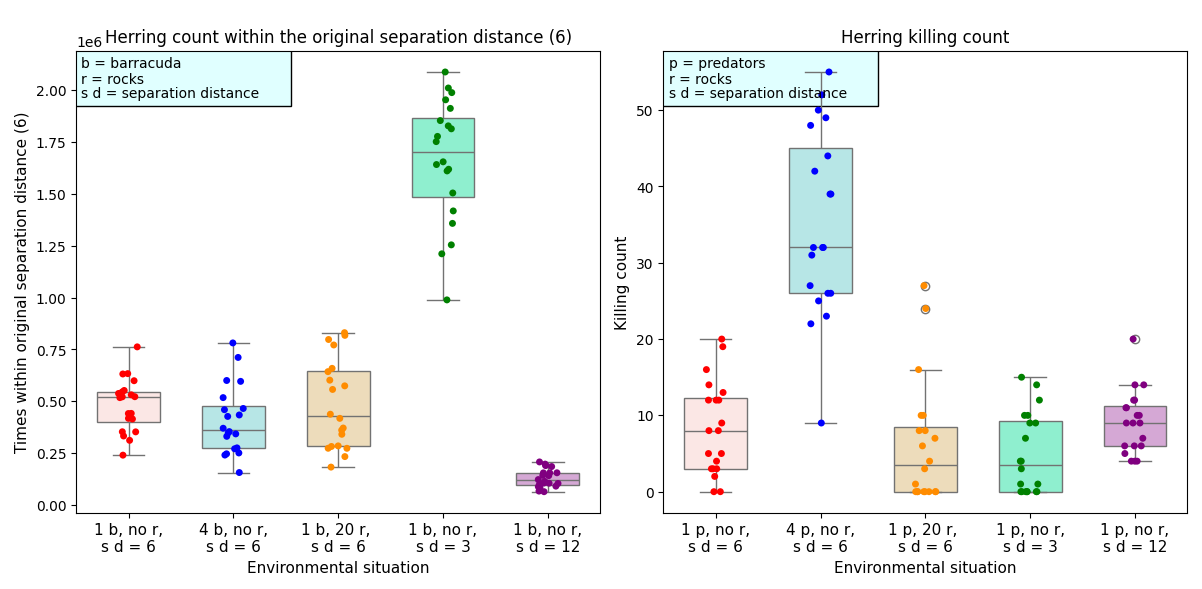
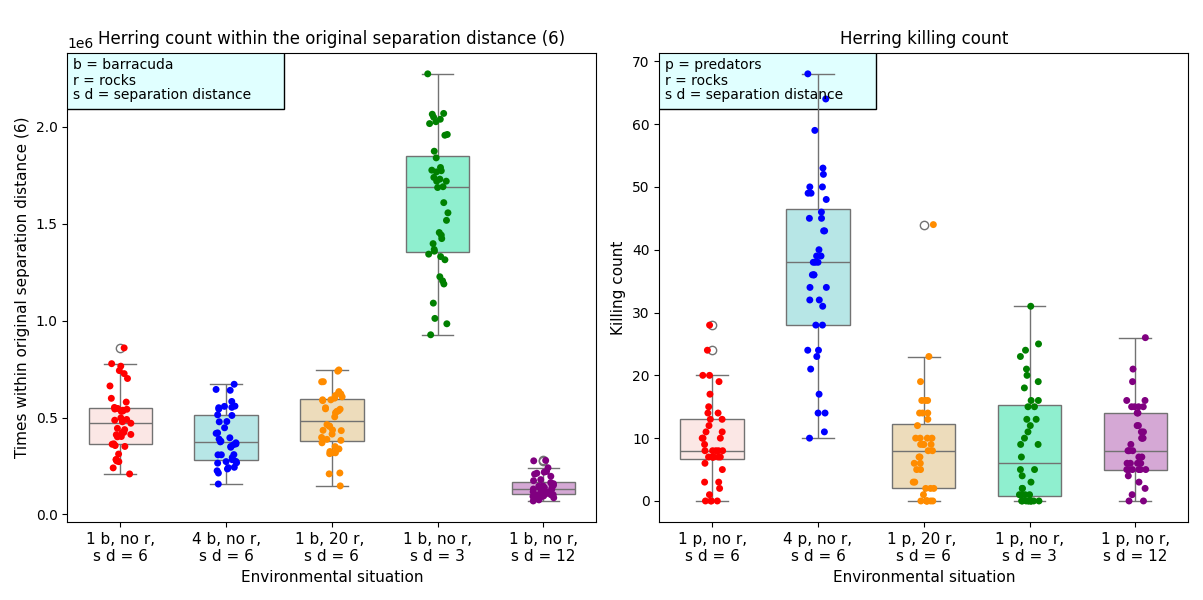
spelling and function check + updated perception figure

diff --git a/code/herring_simulation.py b/code/herring_simulation.py
@@ -4,9 +4,8 @@ University:   UvA
 Course:       Project Computational Science
 Student ID's: 14773279 , 15159337, 13717405
 Description:  Agent-based model to simulate the movement dynamics of a school of herring.
-              The dynamics are also studied in the presence of rocks and predators. This enables
-              us to keep track of the amount of surviving herring and which strategy of movement
-              results in the highest surviving rate.
+              The dynamics are also studied in the presence of rocks and predators. This
+              enables us to keep track of the amount of killed herring.
 """
 
 import pygame
@@ -108,7 +107,7 @@ class Herring(pygame.sprite.Sprite):
             alignment_influence = 1
             cohesion_influence = 3
 
-        # Finding the herring within separation distance
+        # Loop over all the herring
         for herring in all_herring:
             distance_two_herring = self.position.distance_to(herring.position)
 
@@ -121,7 +120,7 @@ class Herring(pygame.sprite.Sprite):
                     neighbour_herring_separation += 1
 
             if herring != self and distance_two_herring != 0 and distance_two_herring < Config.ALIGNMENT_DISTANCE:
-                    # Add direction of the neighbour to the total alignment vector
+                    # Add velocity of the neighbour to the total alignment vector
                     alignment_vector += herring.velocity
                     neighbour_herring_alignment += 1
 
@@ -173,7 +172,7 @@ class Herring(pygame.sprite.Sprite):
                 predator_avoidance_vector += (self.position - predator.position) / distance_to_predator
                 neighbour_predator += 1
 
-            # Kill herring if a predator is within the killing distance
+            # Kill the herring if a predator is within the killing distance
             if distance_to_predator < Config.KILL_DISTANCE:
                 all_herring.remove(self)
                 Herring.killed_herring += 1
@@ -204,15 +203,13 @@ class Herring(pygame.sprite.Sprite):
 
             if distance_to_rock < Config.ROCK_AVOIDANCE_DIST and distance_to_rock != 0:
 
-                # Determine the avoidance vector and add it to total vector
+                # Determine the avoidance vector and add it to the total vector
                 rock_avoidance_vector += (self.position - rock.position)/ distance_to_rock
                 neighbour_rock +=1
 
         # Determine the average rock avoidance vector and multiply by five to make it important
         if neighbour_rock > 0:
             rock_avoidance_vector = rock_avoidance_vector / neighbour_rock
-
-            # Multiply by five to ensure moving away from rock is prioritized
             self.velocity += rock_avoidance_vector * 5
 
         # Normalize velocity and multiply by speed to which some randomness is added
@@ -293,7 +290,7 @@ class Predator(pygame.sprite.Sprite):
         self.velocity = pygame.Vector2(random.uniform(-1, 1), random.uniform(-1, 1)).normalize() * (Config.PREDATOR_SPEED + random.uniform(-0.8, 0.8))
 
     def collision_avoidance(self, all_predators):
-        """Function to adapt the predator's velocity to avoid collision.
+        """Function to adapt the predator's velocity to avoid collision with other predator.
 
         Parameters:
         -----------
@@ -377,8 +374,6 @@ class Predator(pygame.sprite.Sprite):
         # Determine the average avoidance vector and multiply by five to make it important
         if neighbour_rock > 0:
             rock_avoidance_vector = rock_avoidance_vector / neighbour_rock
-
-            # Multiply by five to ensure moving away from rock is prioritized
             self.velocity += rock_avoidance_vector * 5
 
         # Normalize velocity and multiply by speed to which some randomness is added
@@ -533,9 +528,9 @@ class Experiment(pygame.sprite.Sprite):
         self: Experiment
             The experiment being initialized.
         position_1: List
-            The position of onject 1
+            The position of onject 1.
         position_2: List
-            The position of onject 2
+            The position of onject 2.
 
         Returns:
         -----------
@@ -544,7 +539,7 @@ class Experiment(pygame.sprite.Sprite):
 
         Examples:
         >>> obj = Experiment()
-        >>> obj.distance_two_positions((0, 0), (3, 4))
+        >>> obj.distance_two_positions((1, 2), (4, 6))
         5.0
         >>> obj.distance_two_positions((0, 0), (0, 0))
         0.0
@@ -585,6 +580,8 @@ class Experiment(pygame.sprite.Sprite):
         -----------
         self: Experiment
             The experiment being simulated.
+        all_rocks: Pygame.sprite.Group
+            Group containing all rock entities.
 
         Returns:
         -----------
@@ -714,7 +711,7 @@ class Experiment(pygame.sprite.Sprite):
         -----------
         self: Experiment
             The experiment being simulated.
-        font: Font
+        font_style: Font
             The font used to style the text in the legend.
         screen: Screen
             The screen on which the legend has to be shown.
@@ -747,6 +744,55 @@ class Experiment(pygame.sprite.Sprite):
         screen.blit(rock_legend_text, rock_legend_rect)
 
         return screen
+
+    def update_perception_length(perception_length, adaption, elapsed_time):
+        """Function that updates the perception length
+
+        Parameters:
+        -----------
+        perception_length: Float
+            The current perception length stored in the Config class.
+        adaption: Int
+            The change in perception length, differs for herring and predator.
+        elapsed_time: Float
+            The time that has already passed when this function is called.
+
+        Returns:
+        -----------
+        perception_length + or - adaption: Float
+            The new perception length after adaption.
+        """
+        if elapsed_time <= self.simulation_duration/2:
+         return perception_length + adaption
+        else:
+         return perception_length - adaption
+
+    def handle_perception_change(perception_list, perception_length_attr, adaption, killed_count_ls):
+        """Function that changes the perception length of the herring or predator on specific time points
+        during the simulation. Trying to create the concept of the water getting darker later on the day.
+
+        Parameters:
+        -----------
+        perception_list: List
+            Empty list to store the perception lengths on each measured timepoint.
+        perception_lenghth_attr: Float
+            The perception length of either a herring or predator that is currently stored in the Config class.
+        adaption: Int
+            The change in perception length, differs for herring and predator.
+        killed_count_ls: List
+            Empty list to store the number of killed herring between each measured timepoint.
+        """
+        # 20 seconds intervals
+        if round(elapsed_time, 4) % 20 == 0:
+            new_perception_length = self.update_perception_length(getattr(Config, perception_length_attr), adaption, elapsed_time)
+            perception_list.append(new_perception_length)
+            # Saving in different var to prevent the Herring class var (killed_herring) to change throughout the entire simulation
+            killing_count = Herring.killed_herring
+            killed_count_ls.append(killing_count)
+            setattr(Config, perception_length_attr, new_perception_length)
+
+            # Resetting count after the simulation has run witht this perception length value for some time
+            killing_count = 0
 
     def perception_change(self, showed_frames, perception_list_predator, perception_list_herring, killed_count_ls_pred, killed_count_ls_herr):
         """ Function that changes the perception length over time for either the predator, herring or both.
@@ -781,7 +827,6 @@ class Experiment(pygame.sprite.Sprite):
             List with the number of killed herring between each measured timepoint if
             the perception length of the herring changes.
         """
-
         # Ensuring the perception lengths are set to their starting value only in the first function call
         if self.perception_change_called:
             self.perception_change_called = False
@@ -790,63 +835,12 @@ class Experiment(pygame.sprite.Sprite):
 
         elapsed_time = (showed_frames / Config.FRAMES_PER_SECOND)
 
-        def update_perception_length(perception_length, adaption, elapsed_time):
-            """Function that updates the perception length
-
-            Parameters:
-            -----------
-            perception_length: Float
-                The current perception length stored in the Config class.
-            adaption: Int
-                The change in perception length, differs for herring and predator.
-            elapsed_time: Float
-                The time that has already passed when this function is called.
-
-            Returns:
-            -----------
-            perception_length + or - adaption: Float
-                The new perception length after adaption.
-            """
-
-            if elapsed_time <= self.simulation_duration/2:
-             return perception_length + adaption
-            else:
-             return perception_length - adaption
-
-        def handle_perception_change(perception_list, perception_length_attr, adaption, killed_count_ls):
-            """Function that changes the perception length of the herring or predator on specific time points
-            during the simulation. Trying to create the concept of the water getting darker later on the day.
-
-            Parameters:
-            -----------
-            perception_list: List
-                Empty list to store the perception lengths on each measured timepoint.
-            perception_lenghth_attr: Float
-                The perception length of either a herring or predator that is currently stored in the Config class.
-            adaption: Int
-                The change in perception length, differs for herring and predator.
-            killed_count_ls: List
-                Empty list to store the number of killed herring between each measured timepoint.
-            """
-            # 20 seconds intervals
-            if round(elapsed_time, 4) % 20 == 0:
-                new_perception_length = update_perception_length(getattr(Config, perception_length_attr), adaption, elapsed_time)
-                perception_list.append(new_perception_length)
-                # Saving in different var to prevent the Herring class var (killed_herring) to change throughout the entire simulation
-                killing_count = Herring.killed_herring
-                killed_count_ls.append(killing_count)
-                setattr(Config, perception_length_attr, new_perception_length)
-
-                # Resetting count after the simulation has run witht this perception length value for some time
-                killing_count = 0
-
         if self.perception_change_predator:
-            handle_perception_change(perception_list_predator, 'PERCEPTION_LENGTH_PREDATOR', 5, killed_count_ls_pred)
+            self.handle_perception_change(perception_list_predator, 'PERCEPTION_LENGTH_PREDATOR', 5, killed_count_ls_pred)
         if self.perception_change_herring:
-            handle_perception_change(perception_list_herring, 'PERCEPTION_LENGTH_HERRING', 3, killed_count_ls_herr)
+            self.handle_perception_change(perception_list_herring, 'PERCEPTION_LENGTH_HERRING', 3, killed_count_ls_herr)
 
         return perception_list_predator, perception_list_herring, killed_count_ls_pred, killed_count_ls_herr
-
 
     def run(self):
         """ Function that runs an experiment.
@@ -875,10 +869,6 @@ class Experiment(pygame.sprite.Sprite):
         Herring.killed_herring = 0
         Herring.herring_within_separation_distance = 0
 
-        # Set the number of killed herring and perception length to the begin value
-        Config.PERCEPTION_LENGTH_PREDATOR = 100
-        Config.PERCEPTION_LENGTH_HERRING = 32
-
         # Make the rocks, herring and predator group
         all_rocks = self.add_rocks_experiment()
         all_herring = self.add_herring_experiment(all_rocks)
@@ -906,12 +896,10 @@ class Experiment(pygame.sprite.Sprite):
             # Update the position of the herring and predators
             all_herring.update(all_herring, all_predators, all_rocks, self.boids_influence)
             all_predators.update(all_herring, all_predators, all_rocks)
+            elapsed_time = (showed_frames / Config.FRAMES_PER_SECOND)
 
             # Keeping track over the amount of killed herring over time either way
             # Again re-assigning because otherwise you are not able to reset per time frame
-            elapsed_time = (showed_frames / Config.FRAMES_PER_SECOND)
-
-            # This is necessary because otherwise the time does not get added when both are false
             if round(elapsed_time, 4) % 20 == 0:
                 kill_count = Herring.killed_herring
                 killed_herring_og.append(kill_count)
@@ -970,6 +958,6 @@ if __name__ == "__main__":
     """
     # Do doc test and run the a simulation
     doctest.testmod()
-    experiment_example = Experiment(200, 3, 40, 60, True, True, False, False, 32, 32, 6, 0)
+    experiment_example = Experiment(200, 2, 20, 200, True, True, False, False, 32, 32, 6, 0)
     return_values = experiment_example.run()
     print(return_values)

diff --git a/code/statistic_tests.py b/code/statistic_tests.py
@@ -84,12 +84,6 @@ def significant_test_close(df):
     statistic_1_p_3_no_r, p_value_1_p_3_no_r = shapiro(values_1_p_3_no_r)
     statistic_1_p_12_no_r, p_value_1_p_12_no_r = shapiro(values_1_p_12_no_r)
 
-    print('values_1_p_6_no_r', values_1_p_6_no_r)
-    print('values_1_p_6_r', values_1_p_6_r)
-    print('values_4_p_6_no_r', values_4_p_6_no_r)
-    print('values_1_p_3_no_r', values_1_p_3_no_r)
-    print('values_1_p_12_no_r', values_1_p_12_no_r)
-
     # Determine if introducing predators has a significant influence on the density
     if p_value_1_p_6_no_r >= 0.05 and p_value_4_p_6_no_r >= 0.05:
         t_statistic, p_value = stats.ttest_rel(values_1_p_6_no_r, values_4_p_6_no_r)
@@ -207,7 +201,7 @@ def significant_test_boidsrules(data):
             # Perform paired t-tests
             t_stat, p_value = ttest_rel(group1_data, group2_data)
 
-            # Print the results of the paired t-test 
+            # Print the results of the paired t-test
             print(f'Paired t-test between "{group1_name}" and "{group2_name}": t-statistic = {t_stat}, p-value = {p_value}')
 
         else:
